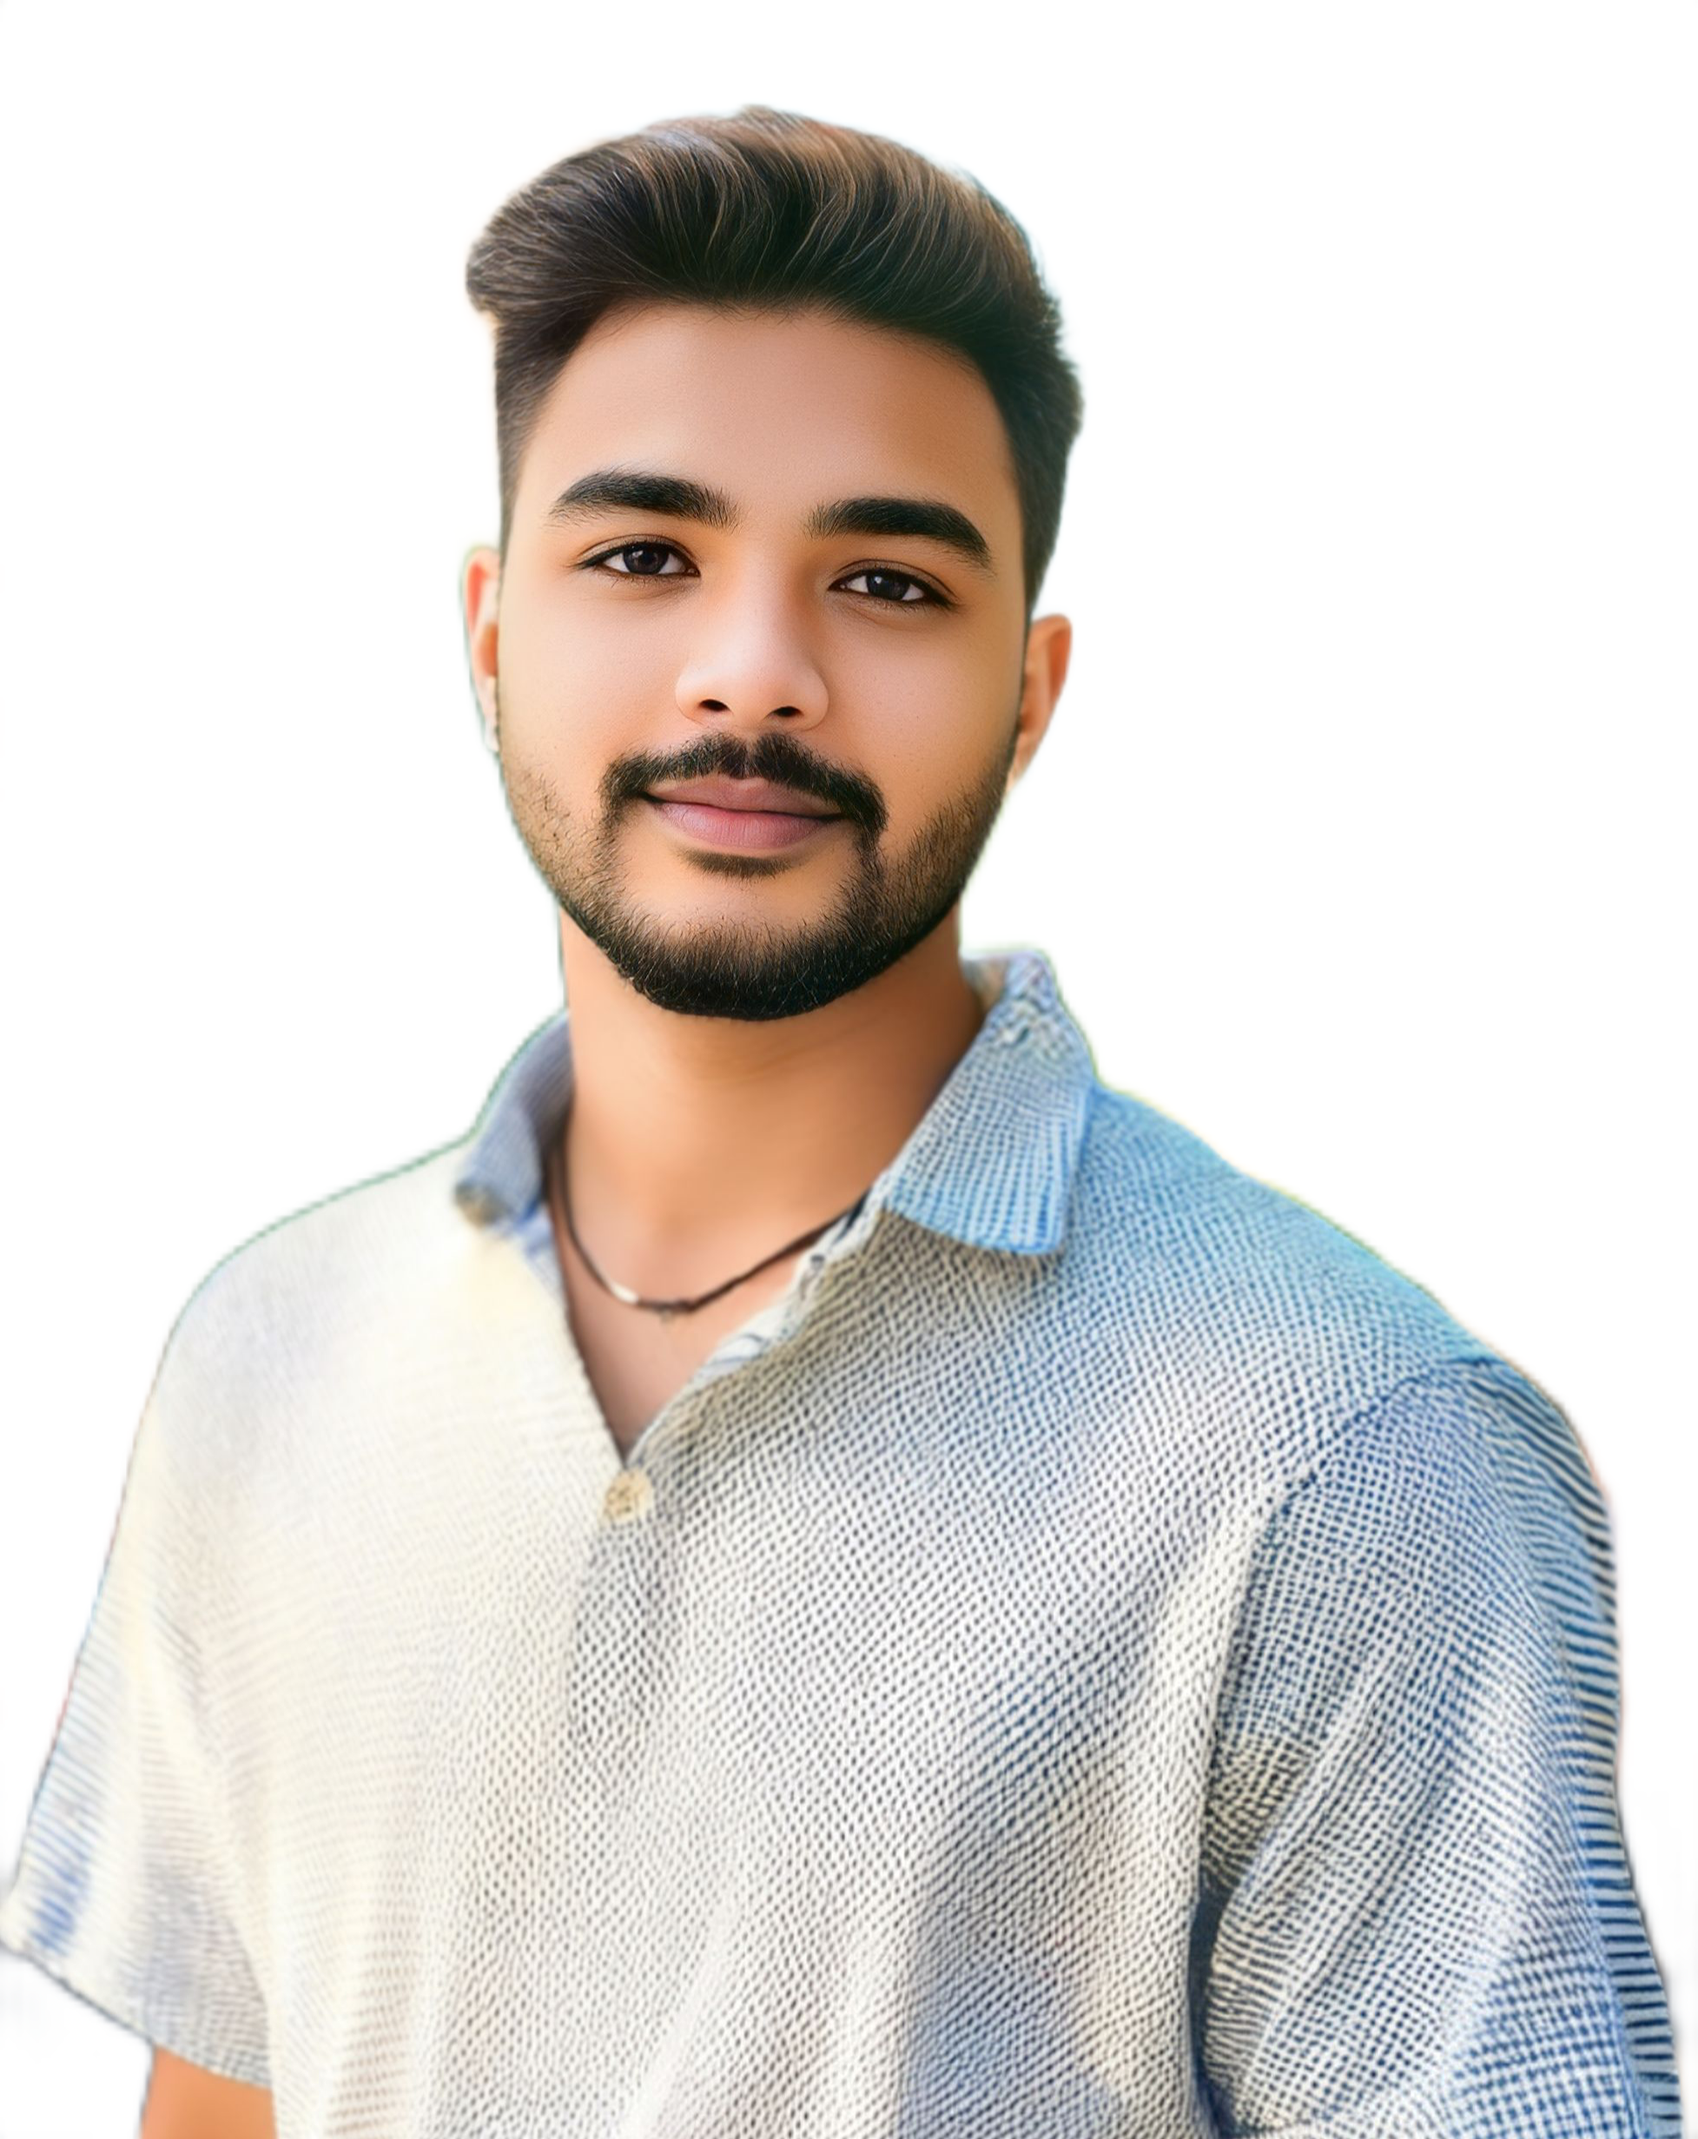
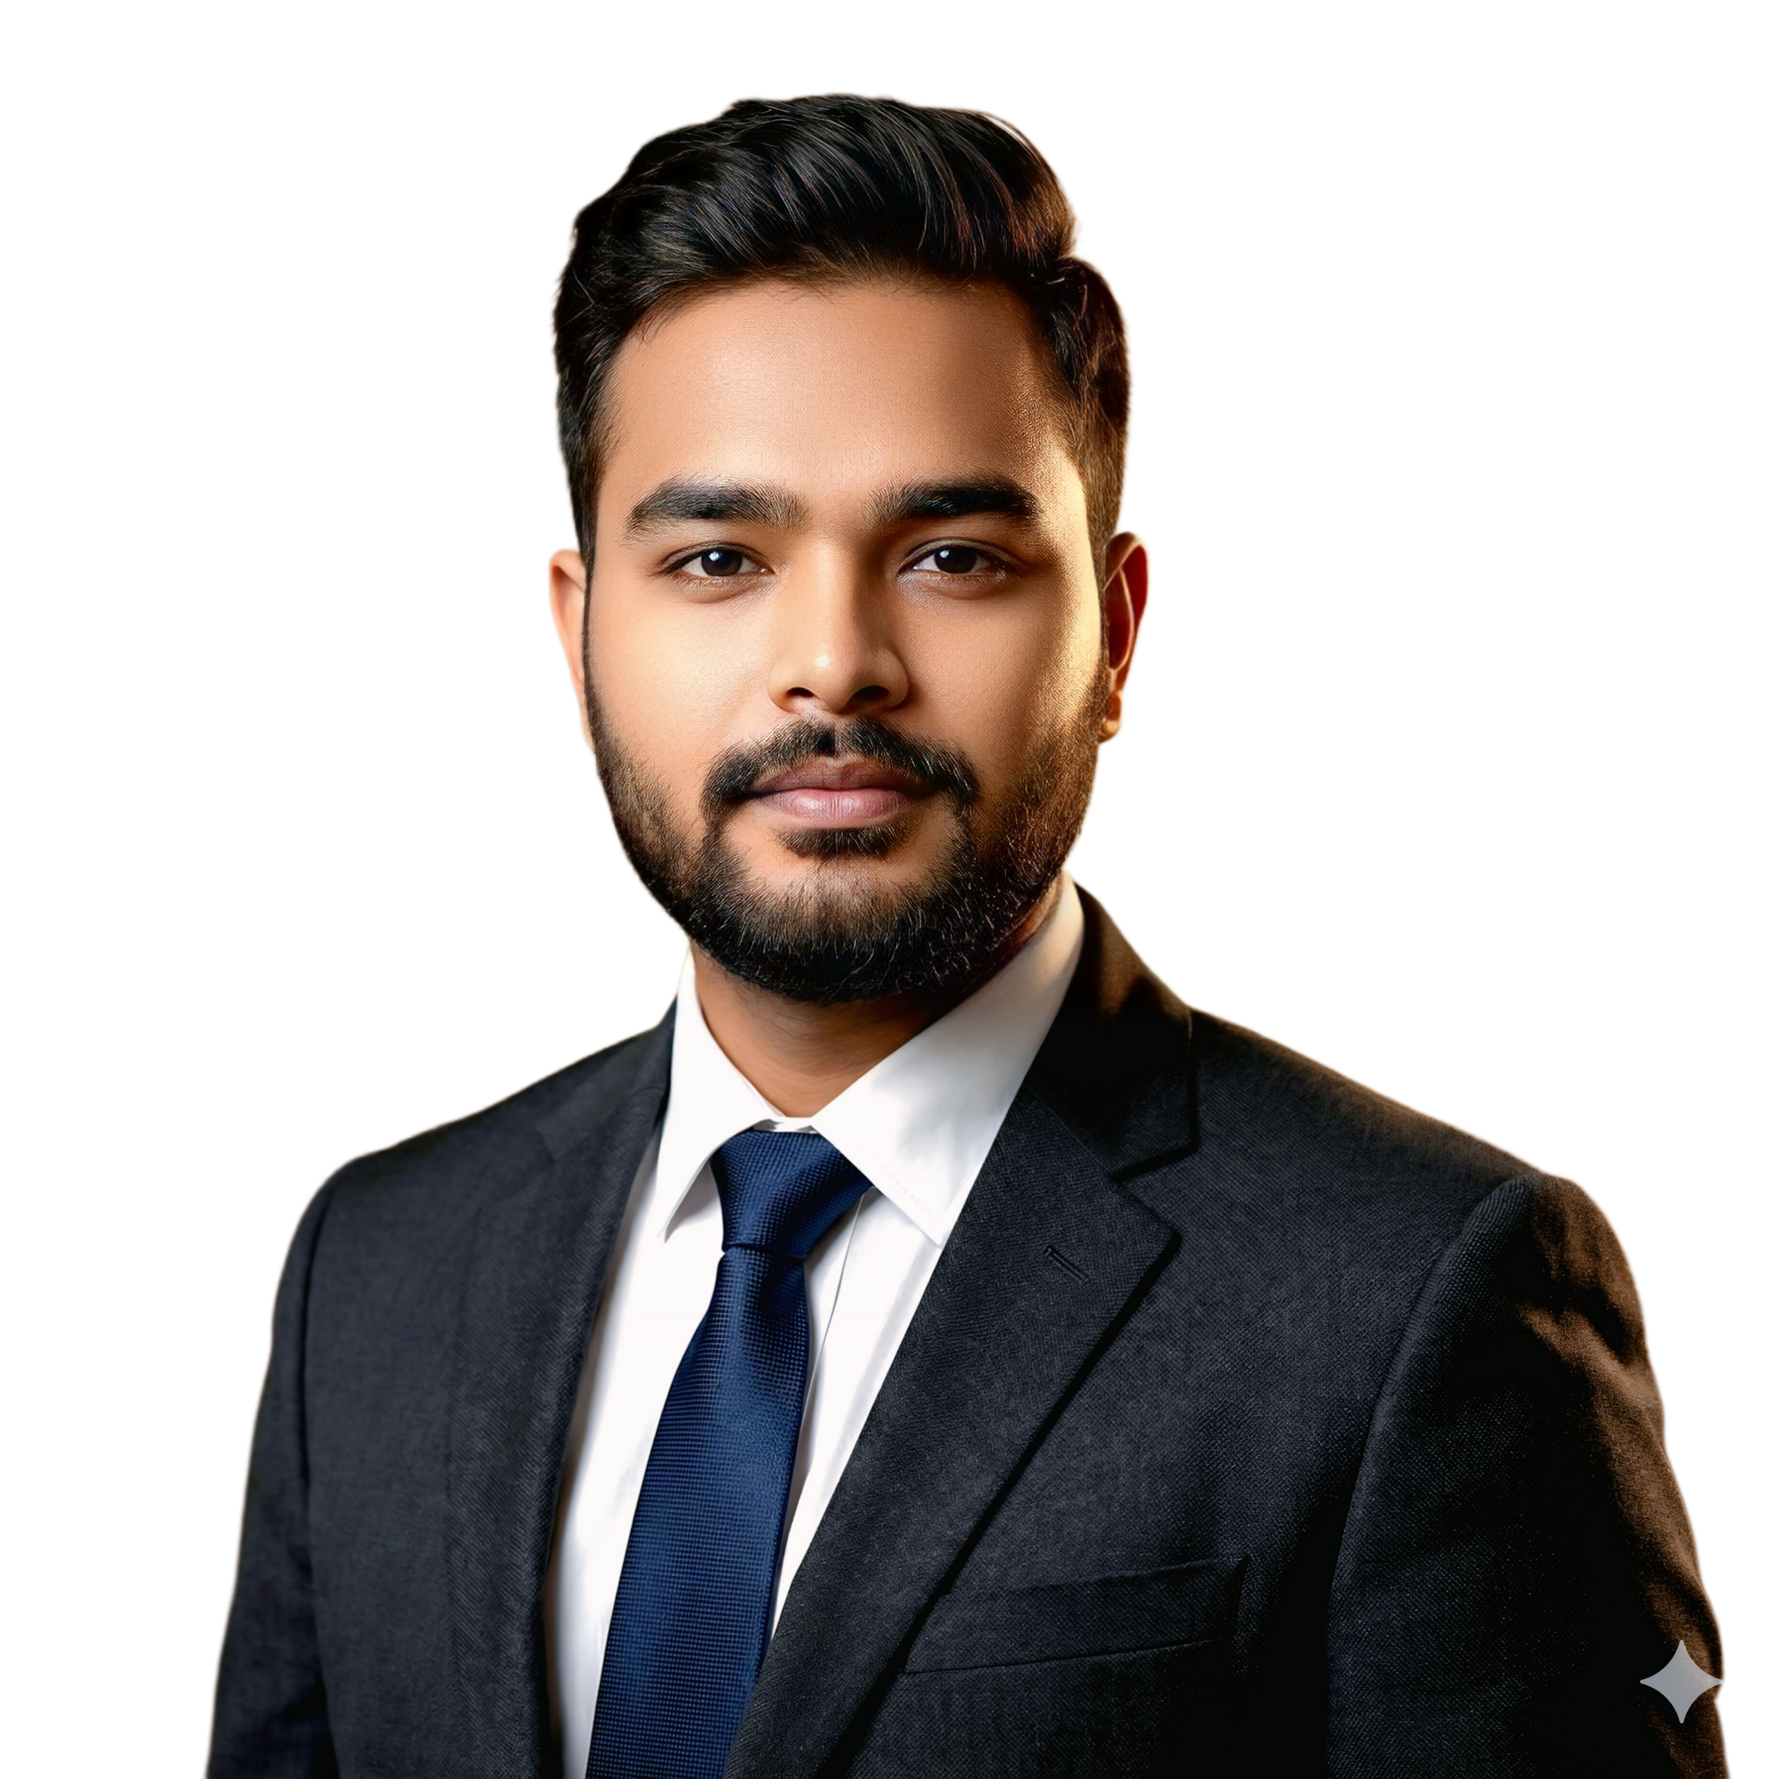
Update New

diff --git a/src/components/Footer/Footer.jsx b/src/components/Footer/Footer.jsx
@@ -1,6 +1,5 @@
-import React from "react";
-import { FaTwitter, FaLinkedinIn, FaGithub } from "react-icons/fa";
-import { logo4 } from "../../assets";
+import { FaGithub, FaLinkedinIn, FaTwitter } from 'react-icons/fa';
+import { logo4 } from '../../assets';
 
 const Footer = () => {
   return (
@@ -9,7 +8,11 @@ const Footer = () => {
         {/* Logo & Social */}
         <div className="flex flex-col gap-6">
           <div className="flex items-center gap-3">
-            <img src={logo4} alt="logo" className="w-12 h-12 rounded-full shadow-md" />
+            <img
+              src={logo4}
+              alt="logo"
+              className="w-12 h-12 rounded-full shadow-md"
+            />
             <h1 className="text-2xl font-bold uppercase tracking-widest text-gray-800">
               Verma
             </h1>
@@ -19,17 +22,29 @@ const Footer = () => {
               Find Me On
             </h2>
             <div className="flex gap-4 mt-3">
-              <a href="https://www.linkedin.com/in/suraj-ver789" target="_blank" rel="noopener noreferrer">
+              <a
+                href="https://www.linkedin.com/in/suraj-ver789"
+                target="_blank"
+                rel="noopener noreferrer"
+              >
                 <span className="w-10 h-10 rounded-full bg-gradient-to-tr from-blue-500 to-[#ff0080] text-white flex items-center justify-center shadow-lg hover:scale-110 transition-transform duration-300">
                   <FaLinkedinIn />
                 </span>
               </a>
-              <a href="https://github.com/Himanshu8825" target="_blank" rel="noopener noreferrer">
+              <a
+                href="https://github.com/SurajVerma8825"
+                target="_blank"
+                rel="noopener noreferrer"
+              >
                 <span className="w-10 h-10 rounded-full bg-gradient-to-tr from-gray-700 to-gray-900 text-white flex items-center justify-center shadow-lg hover:scale-110 transition-transform duration-300">
                   <FaGithub />
                 </span>
               </a>
-              <a href="https://twitter.com/suraj_ver789" target="_blank" rel="noopener noreferrer">
+              <a
+                href="https://twitter.com/suraj_ver789"
+                target="_blank"
+                rel="noopener noreferrer"
+              >
                 <span className="w-10 h-10 rounded-full bg-gradient-to-tr from-sky-400 to-blue-500 text-white flex items-center justify-center shadow-lg hover:scale-110 transition-transform duration-300">
                   <FaTwitter />
                 </span>
@@ -44,12 +59,17 @@ const Footer = () => {
             Quick Links
           </h3>
           <ul className="flex flex-col gap-3 text-gray-700 text-base font-medium">
-            {["About", "Portfolio", "Services", "Blog", "Contact"].map((item, idx) => (
-              <li key={idx} className="group relative w-max cursor-pointer hover:text-[#ff0080] transition-colors">
-                {item}
-                <span className="absolute bottom-0 left-0 w-full h-[2px] bg-[#ff0080] scale-x-0 group-hover:scale-x-100 transition-transform duration-300 origin-left"></span>
-              </li>
-            ))}
+            {['About', 'Portfolio', 'Services', 'Blog', 'Contact'].map(
+              (item, idx) => (
+                <li
+                  key={idx}
+                  className="group relative w-max cursor-pointer hover:text-[#ff0080] transition-colors"
+                >
+                  {item}
+                  <span className="absolute bottom-0 left-0 w-full h-[2px] bg-[#ff0080] scale-x-0 group-hover:scale-x-100 transition-transform duration-300 origin-left"></span>
+                </li>
+              )
+            )}
           </ul>
         </div>
 
@@ -59,8 +79,17 @@ const Footer = () => {
             Resources
           </h3>
           <ul className="flex flex-col gap-3 text-gray-700 text-base font-medium">
-            {["Authentication", "System Status", "Terms of Service", "Pricing", "Over Right"].map((item, idx) => (
-              <li key={idx} className="group relative w-max cursor-pointer hover:text-[#ff0080] transition-colors">
+            {[
+              'Authentication',
+              'System Status',
+              'Terms of Service',
+              'Pricing',
+              'Over Right',
+            ].map((item, idx) => (
+              <li
+                key={idx}
+                className="group relative w-max cursor-pointer hover:text-[#ff0080] transition-colors"
+              >
                 {item}
                 <span className="absolute bottom-0 left-0 w-full h-[2px] bg-[#ff0080] scale-x-0 group-hover:scale-x-100 transition-transform duration-300 origin-left"></span>
               </li>
@@ -74,8 +103,17 @@ const Footer = () => {
             Developers
           </h3>
           <ul className="flex flex-col gap-3 text-gray-700 text-base font-medium">
-            {["Documentation", "Authentication", "API Reference", "Support", "Open Source"].map((item, idx) => (
-              <li key={idx} className="group relative w-max cursor-pointer hover:text-[#ff0080] transition-colors">
+            {[
+              'Documentation',
+              'Authentication',
+              'API Reference',
+              'Support',
+              'Open Source',
+            ].map((item, idx) => (
+              <li
+                key={idx}
+                className="group relative w-max cursor-pointer hover:text-[#ff0080] transition-colors"
+              >
                 {item}
                 <span className="absolute bottom-0 left-0 w-full h-[2px] bg-[#ff0080] scale-x-0 group-hover:scale-x-100 transition-transform duration-300 origin-left"></span>
               </li>

diff --git a/src/components/Data.js b/src/components/Data.js
@@ -44,7 +44,7 @@ const ProjectsData = [
     img: HireHub,
     title: 'Hire-Hub',
     github: 'https://github.com/Himanshu8825/Job-Portal.git',
-    liveLink: 'https://github.com/Himanshu8825/Job-Portal.git',
+    liveLink: 'https://job-portal-kpvv.onrender.com/',
     description:
       "'Hire-Hub' is my MERN stack project, using Tailwind CSS , Shad Cn , and Redux .  You can add a job and also students apply their job according to their skills . offering an intuitive user experience. ",
   },

diff --git a/src/components/Contact/ContactLeft.jsx b/src/components/Contact/ContactLeft.jsx
@@ -40,7 +40,7 @@ const ContactLeft = () => {
             </span>
           </a>
           <a
-            href="https://github.com/Himanshu8825"
+            href="https://github.com/SurajVerma8825"
             target="_blank"
             rel="noopener noreferrer"
             className="transition-transform duration-300 hover:scale-110"

diff --git a/src/components/Banner/Media.jsx b/src/components/Banner/Media.jsx
@@ -24,7 +24,7 @@ const Media = () => {
               <FaLinkedinIn />
             </a>
             <a
-              href="https://github.com/Himanshu8825"
+              href="https://github.com/SurajVerma8825"
               target="_blank"
               rel="noopener noreferrer"
               className={iconStyle}
